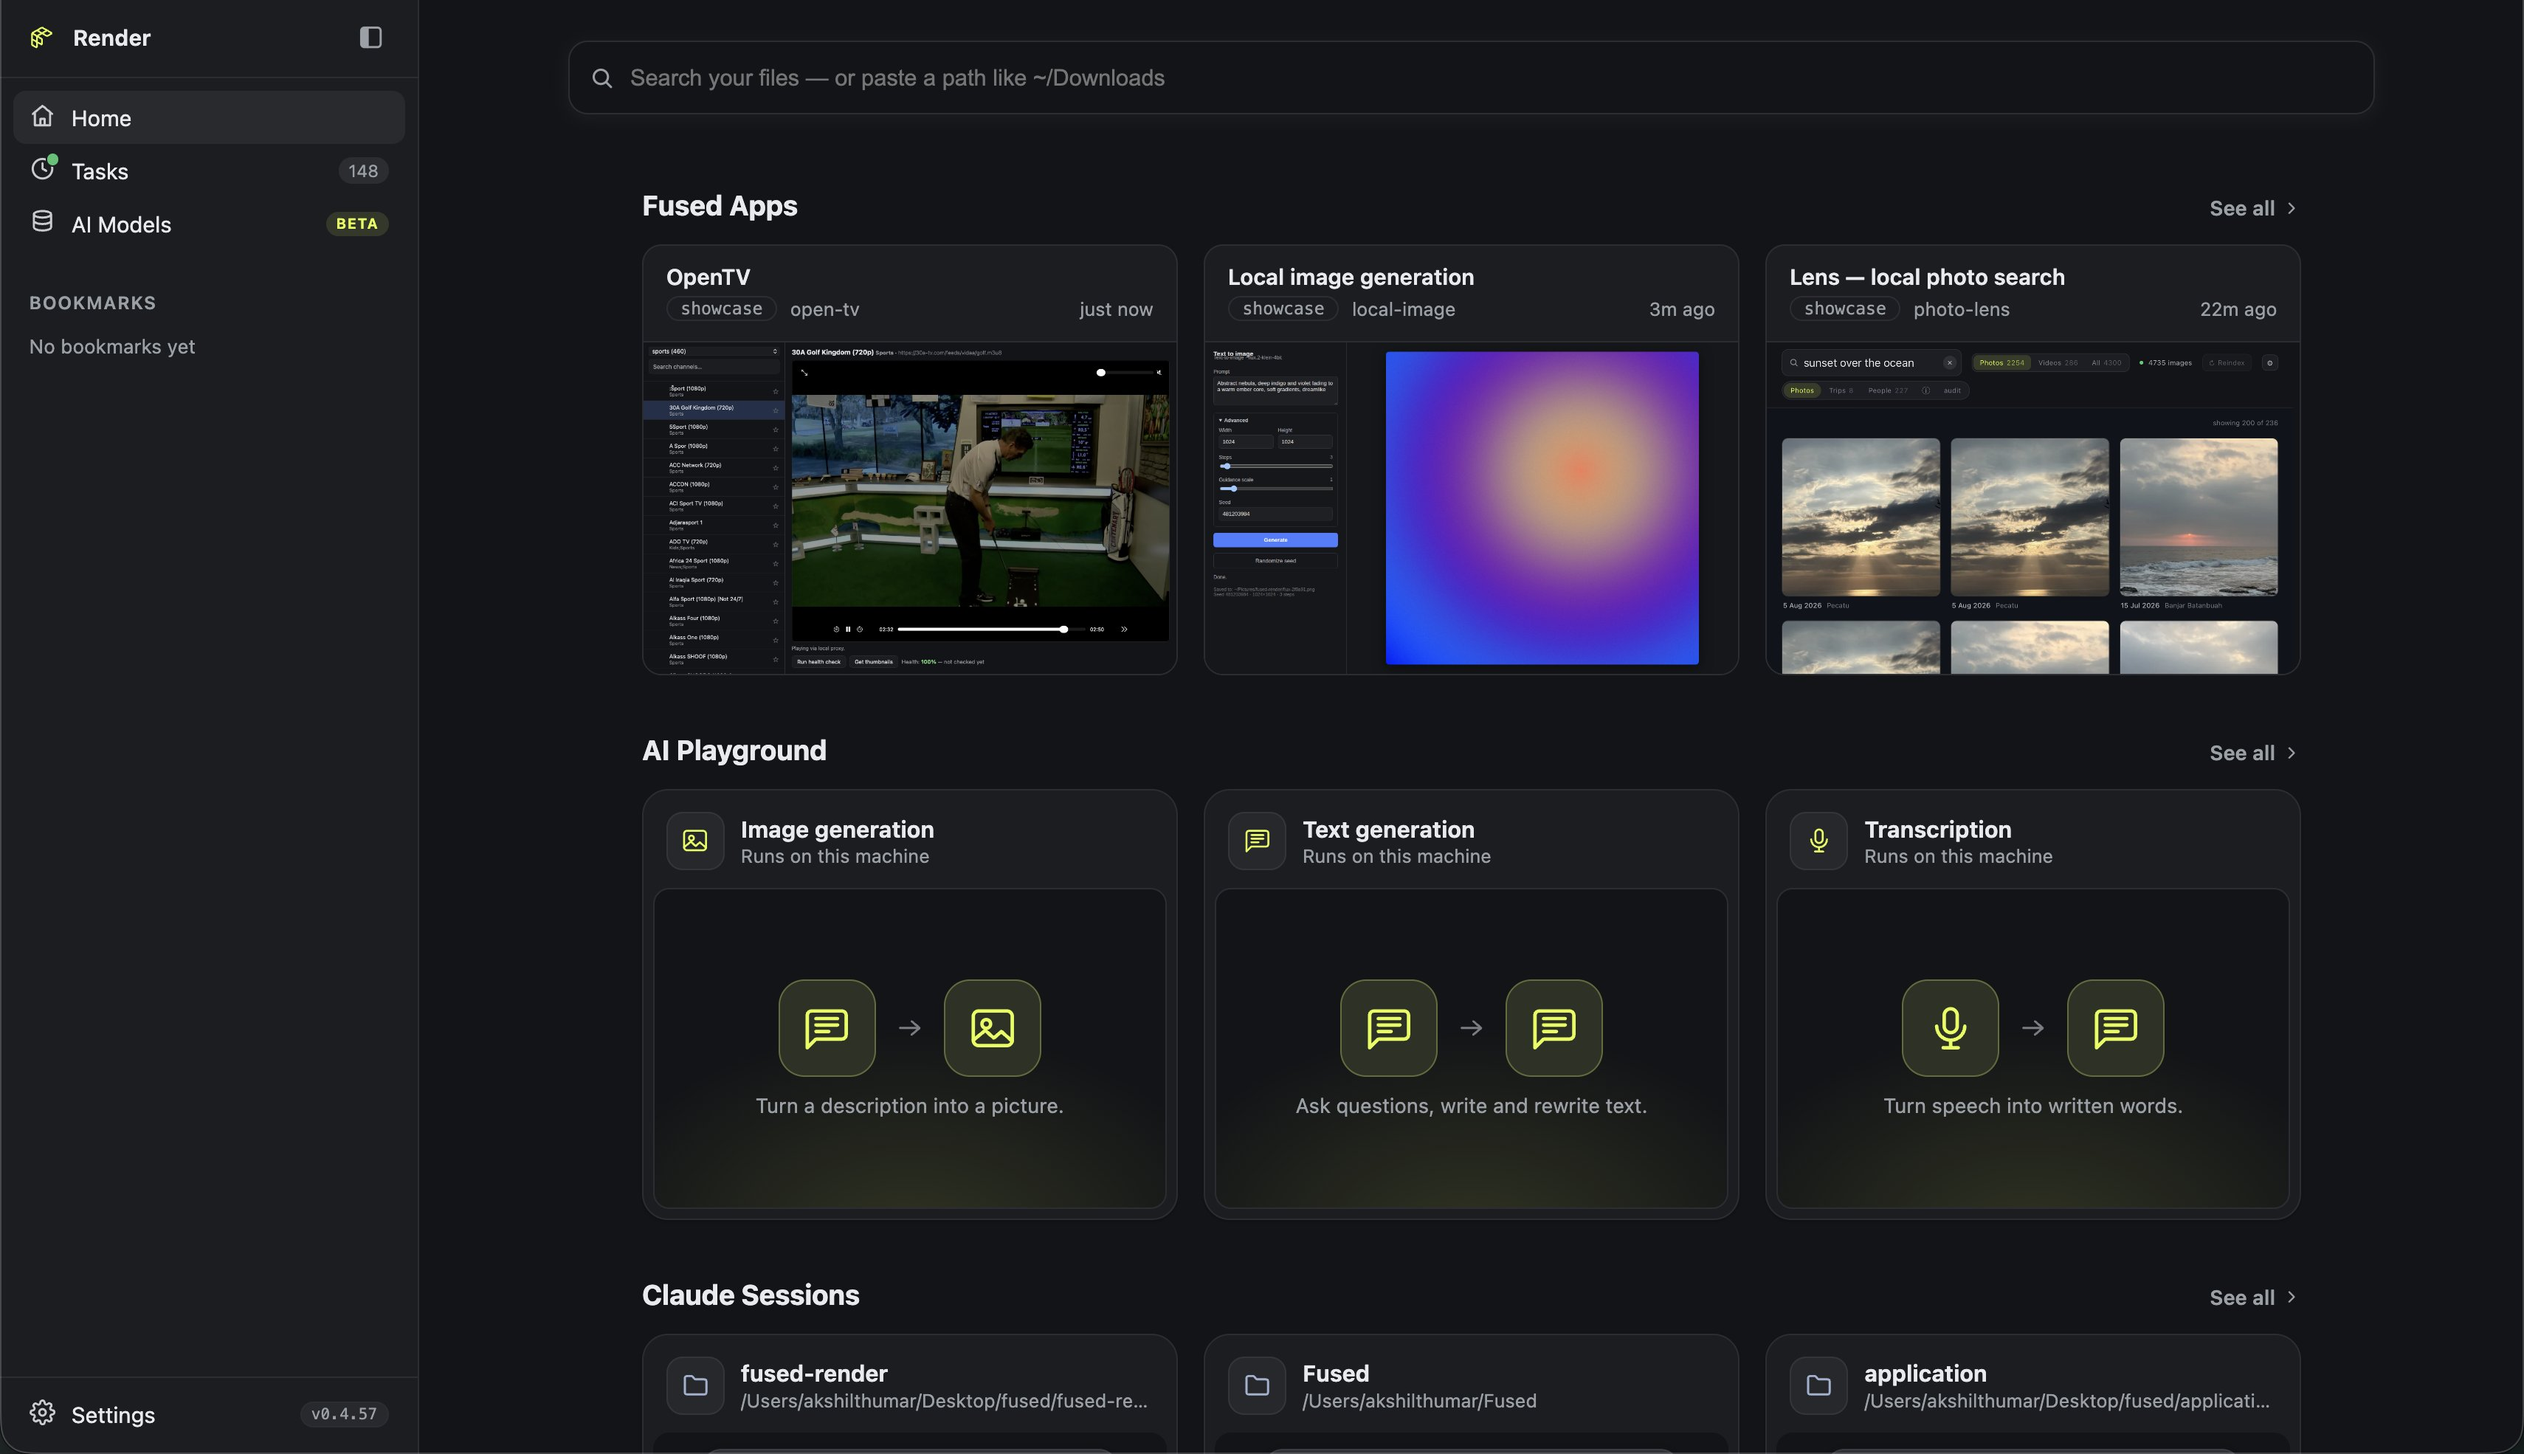
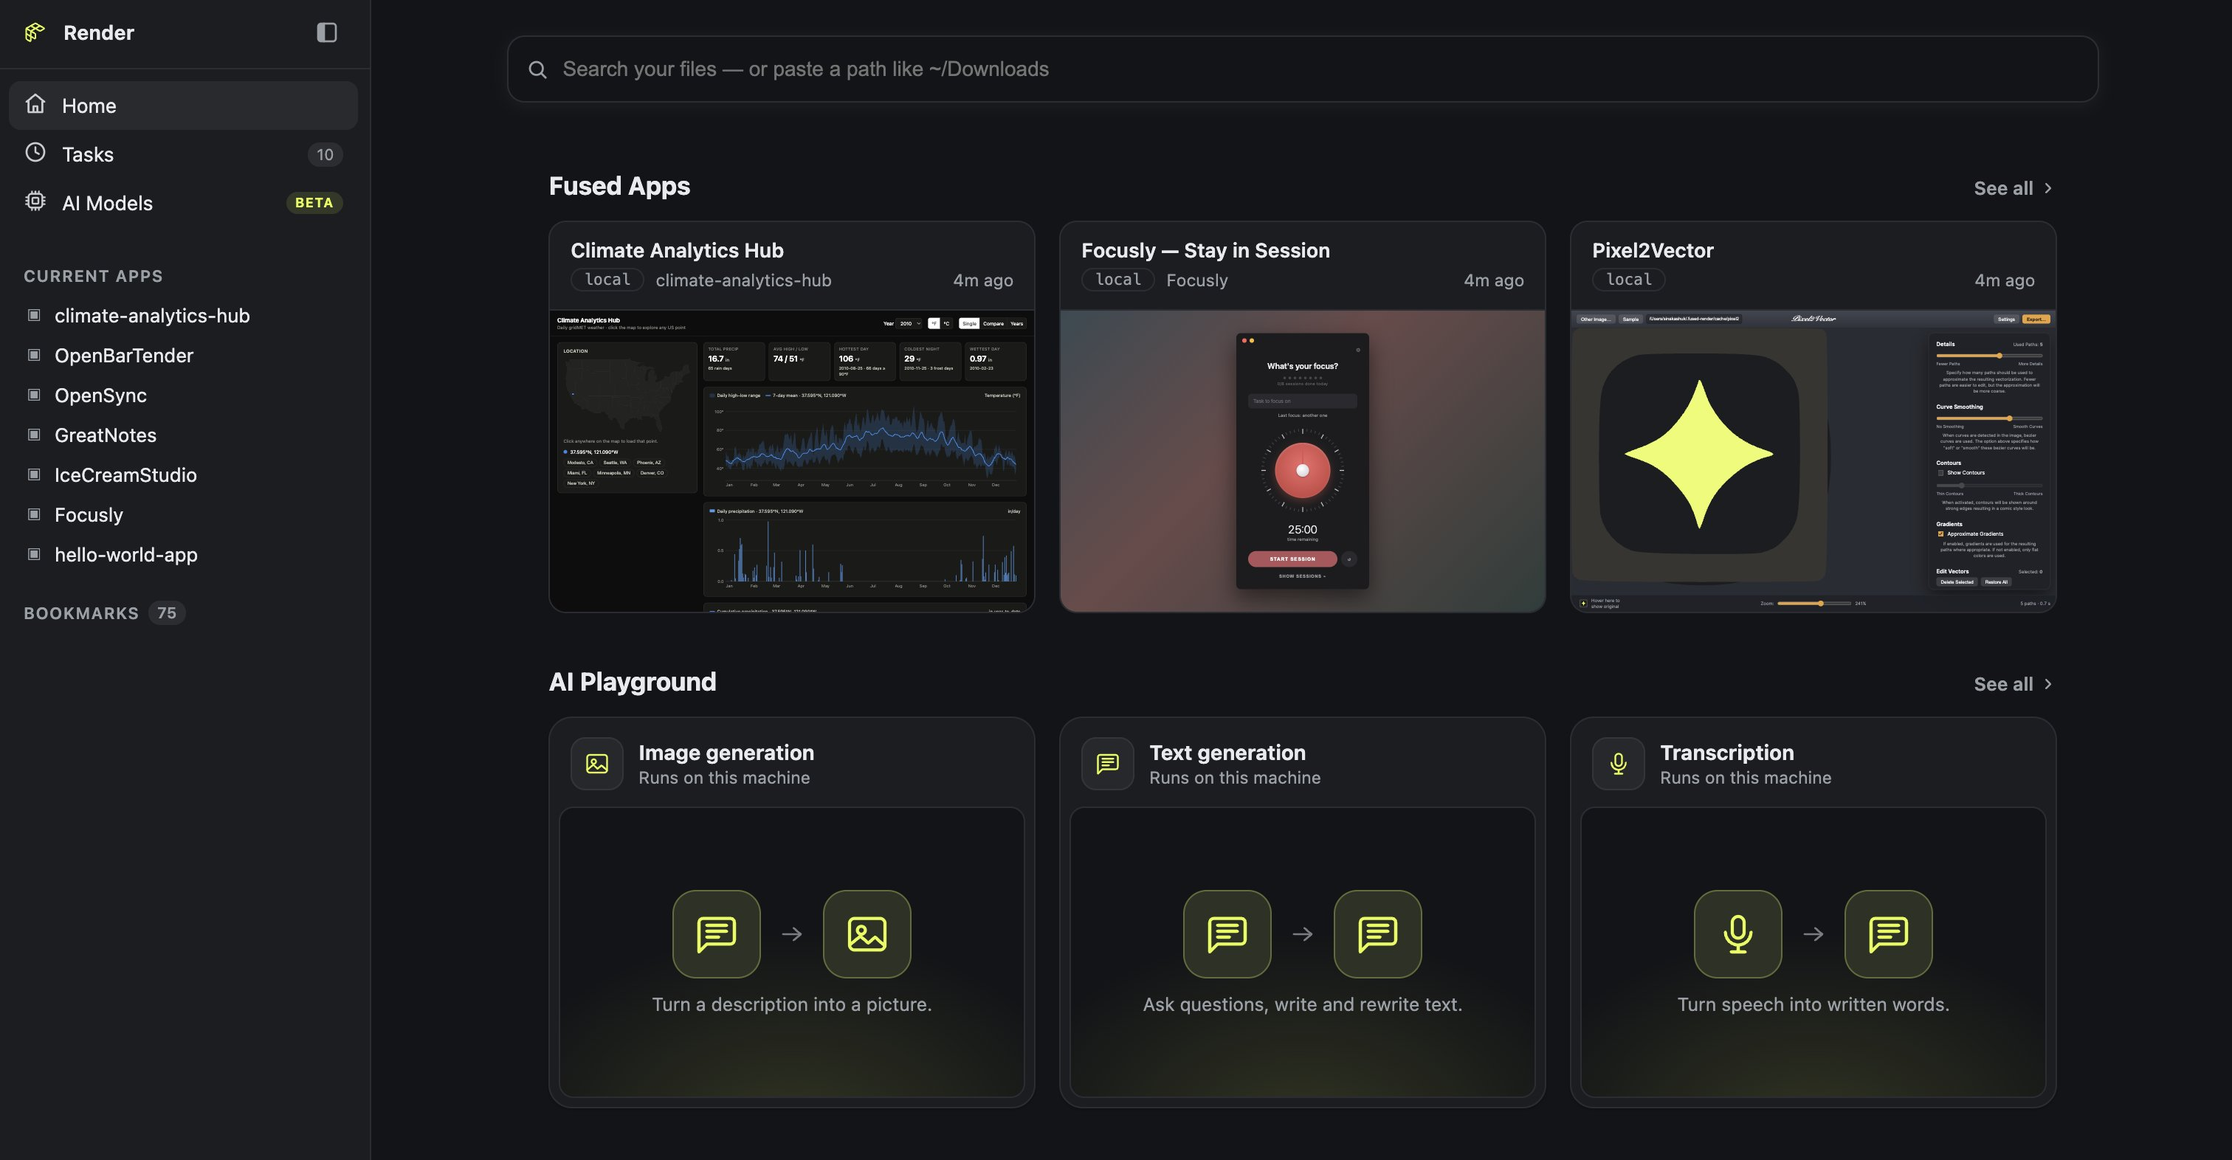
Landing: download copy, platform note and OS marks on both CTAs
- The closer now opens with "Open source, and it stays on your machine."
  over "Free. No account, no key, no card."
- The hero fine print keeps only "No account needed."; the platform
  caveat moved to where it is actionable — a note under the download
  button for Windows and Linux visitors ("limited support on X, native
  on macOS"), and a standing line inside the Other platforms dropdown.
- Both download buttons (hero and closer) carry the detected OS mark:
  Apple, Windows or Linux.
- Fresh home-screen screenshot behind the Mac window.

diff --git a/scripts/download_page/index.html b/scripts/download_page/index.html
@@ -262,7 +262,7 @@
   }
   /* The one accent in the first viewport. */
   .btn {
-    display: inline-flex; align-items: center; min-height: 46px;
+    display: inline-flex; align-items: center; gap: 11px; min-height: 46px;
     padding: 0 26px; border-radius: 99px;
     background: var(--accent-fill); color: var(--accent-on);
     border: 1px solid var(--accent-edge);
@@ -270,6 +270,7 @@
     text-decoration: none;
     transition: transform 0.22s var(--ease);
   }
+  .btn svg { width: 17px; height: 17px; }
   .link-plain {
     display: inline-flex; align-items: center; min-height: 40px;
     font-size: 15px; text-decoration: none;
@@ -537,6 +538,14 @@
   }
   .dl-others[open] summary::after { transform: rotate(225deg) translateY(-1px); }
   .dl-others summary:hover { color: var(--ink-2); }
+  .dl-note {
+    margin: 0; max-width: 34ch; text-align: center;
+    font: 500 var(--t-xs)/1.7 ui-monospace, SFMono-Regular, Menlo, monospace;
+    text-transform: uppercase; letter-spacing: 0.11em; color: var(--ink-3);
+  }
+  .dl-list-note {
+    margin: 6px 4px 2px; font-size: var(--t-xs); line-height: 1.5; color: var(--ink-4);
+  }
   .dl-others { position: relative; }
   .dl-list {
     position: absolute; bottom: calc(100% + 10px); left: 50%; transform: translateX(-50%);
@@ -1185,9 +1194,9 @@
     <div class="hero-left">
       <h1>Your files,<br>your AI,<br>your apps.</h1>
       <div class="acts">
-        <a class="btn" id="hero-cta" rel="noopener" href="https://github.com/fusedio/fused-render/releases">Download for macOS</a>
+        <a class="btn" id="hero-cta" rel="noopener" href="https://github.com/fusedio/fused-render/releases"><svg viewBox="0 0 20 20" aria-hidden="true"><use id="hero-cta-icon" href="#i-apple"/></svg><span id="hero-cta-label">Download for macOS</span></a>
       </div>
-      <p class="fine">No account needed.<br>Native support for macOS<br>limited support on Windows &amp; Linux.</p>
+      <p class="fine">No account needed.</p>
     </div>
   </section>
 
@@ -1505,18 +1514,19 @@
               <span class="tl r"></span><span class="tl y"></span><span class="tl g"></span>
               <span class="mac-title">Fused Render</span>
             </div>
-            <img class="mac-shot" src="assets/showcase/app-home.jpg" width="3420" height="1970"
+            <img class="mac-shot" src="assets/showcase/app-home.jpg" width="3024" height="1572"
                  loading="lazy" decoding="async" alt="The Fused Render home screen: apps, AI playground and Claude tasks.">
           </div>
         </div>
         <div class="getbody" id="getbody">
-          <h2>Free, and it stays on your machine.</h2>
-          <p class="deck">One download. No account, no key, no card.</p>
+          <h2>Open source, and it stays on your machine.</h2>
+          <p class="deck">Free. No account, no key, no card.</p>
           <div class="dl">
             <a class="dl-btn" id="dl-primary" rel="noopener" href="https://github.com/fusedio/fused-render/releases">
               <svg viewBox="0 0 20 20" aria-hidden="true"><use id="dl-primary-icon" href="#i-apple"/></svg>
               <span id="dl-primary-label">Download for macOS</span>
             </a>
+            <p class="dl-note" id="dl-note" hidden></p>
             <details class="dl-others">
               <summary>Other platforms</summary>
               <div class="dl-list">
@@ -1532,6 +1542,8 @@
                   <span class="nm"><svg viewBox="0 0 20 20" aria-hidden="true"><use href="#i-linux"/></svg>Linux</span>
                   <span class="sub">AppImage</span>
                 </a>
+                <p class="dl-list-note">Native support on macOS; limited support on
+                Windows &amp; Linux.</p>
               </div>
             </details>
             <span class="version" id="version" hidden></span>
@@ -1703,11 +1715,21 @@
   var osIcon = { mac: "#i-apple", win: "#i-windows", linux: "#i-linux" }[visitorOS];
   function syncCta() {
     var href = document.getElementById(osCardId).href;
-    heroCta.textContent = "Download for " + osLabel;
+    document.getElementById("hero-cta-label").textContent = "Download for " + osLabel;
+    document.getElementById("hero-cta-icon").setAttribute("href", osIcon);
     heroCta.href = href;
     dlBtn.href = href;
     document.getElementById("dl-primary-label").textContent = "Download for " + osLabel;
     document.getElementById("dl-primary-icon").setAttribute("href", osIcon);
+    // macOS is the native build; say so where it matters, on the other two.
+    var note = document.getElementById("dl-note");
+    if (note) {
+      if (visitorOS === "mac") { note.hidden = true; }
+      else {
+        note.textContent = "Limited support on " + osLabel + " \u00b7 native on macOS";
+        note.hidden = false;
+      }
+    }
   }
   syncCta();
 
